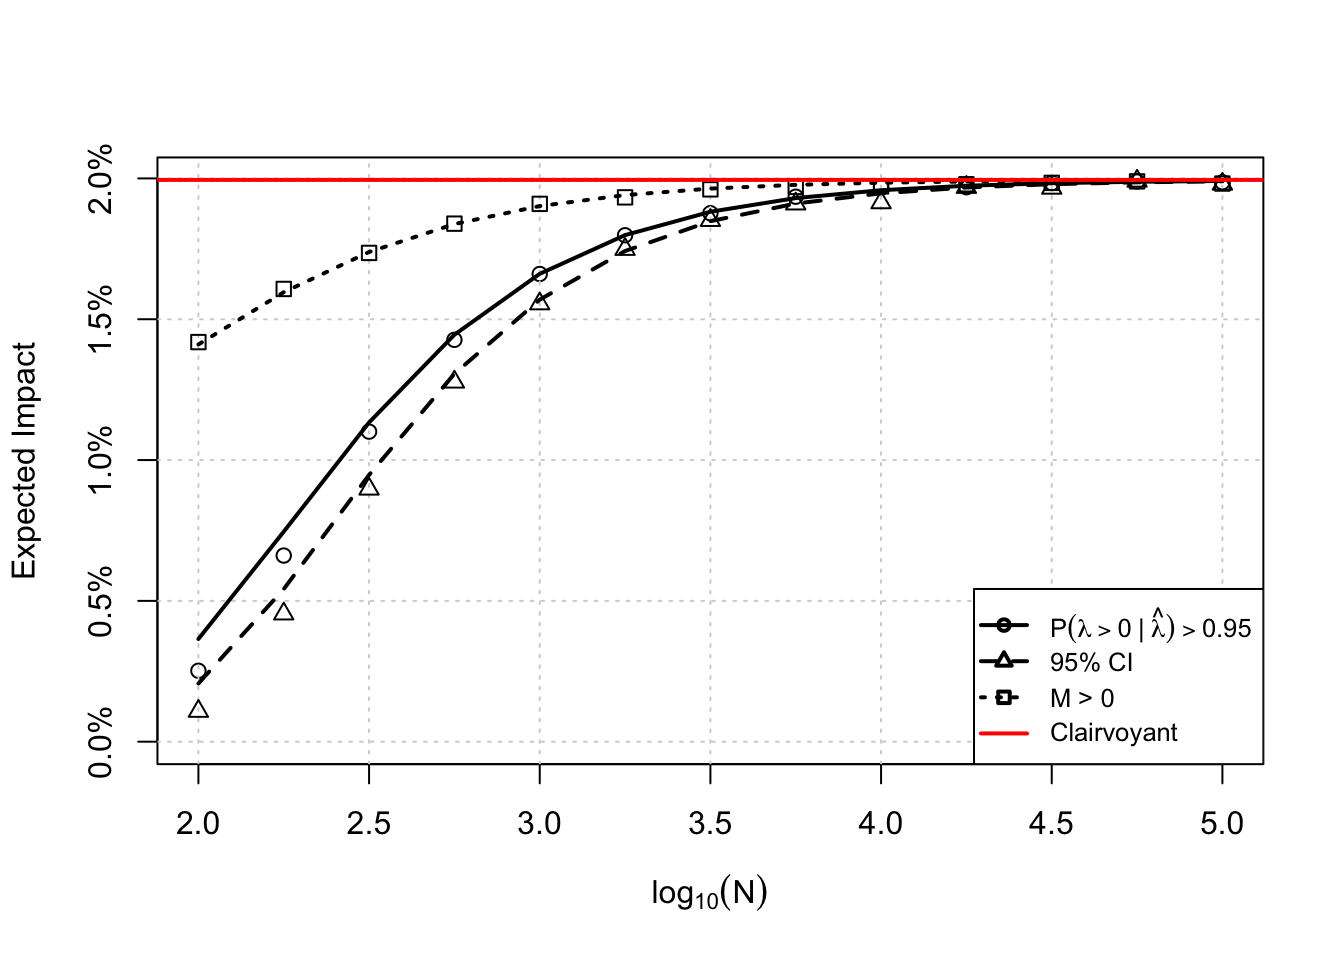
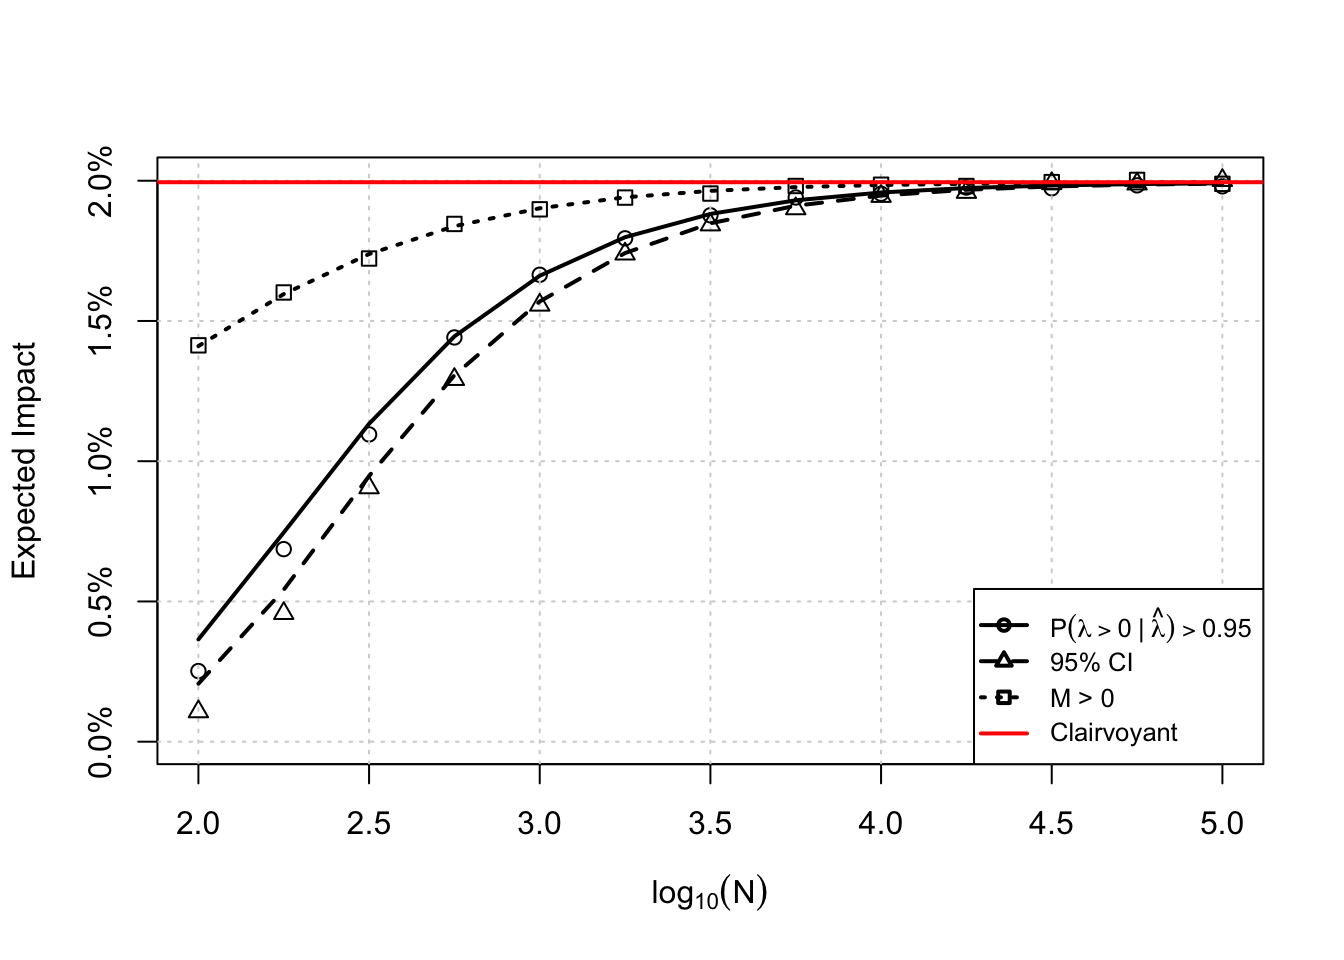
edits

diff --git a/docs/posts/2026-02-20-time/index.html b/docs/posts/2026-02-20-time/index.html
@@ -299,10 +299,10 @@ Important
 <p><span class="math display">\[E[\text{impact} \mid N] = E[\lambda \cdot \mathbf{1}\{\hat \lambda &gt; S(N)\}]\]</span></p>
 <p>Under our model, the joint distribution of the true effect and the observed effect is bivariate normal:</p>
 <p><span class="math display">\[\begin{pmatrix} \lambda \\ \hat \lambda \end{pmatrix} \sim \mathcal{N} \left( \begin{pmatrix} \mu \\ \mu \end{pmatrix}, \begin{pmatrix} \tau^2 &amp; \tau^2 \\ \tau^2 &amp; \tau^2 + s_\lambda^2 \end{pmatrix} \right)\]</span></p>
-<p>Define <span class="math inline">\(\omega^2 = \tau^2 + s_\lambda^2\)</span> as the total variance of the observed lift. Using the properties of the multivariate normal distribution, the expected value of <span class="math inline">\(\lambda\)</span> over the truncation <span class="math inline">\(\hat \lambda &gt; S(N)\)</span> is</p>
-<p><span class="math display">\[E[\lambda \cdot \mathbf{1}(\hat \lambda &gt; S(N))] = \mu \Phi(a) + \frac{\tau^2}{\omega} \phi(a) \&gt;.\]</span></p>
+<p>Using the properties of the multivariate normal distribution, the expected value of <span class="math inline">\(\lambda\)</span> over the truncation <span class="math inline">\(\hat \lambda &gt; S(N)\)</span> is</p>
+<p><span class="math display">\[E[\lambda \cdot \mathbf{1}(\hat \lambda &gt; S(N))] = \mu \Phi(a) + \frac{\tau^2}{\sqrt{\tau^2 + s_\lambda^2}} \phi(a) \&gt;.\]</span></p>
 <p>Here, <span class="math inline">\(a\)</span> is</p>
-<p><span class="math display">\[a = \frac{\mu - S(N)}{\omega} \&gt;.\]</span></p>
+<p><span class="math display">\[a = \frac{\mu - S(N)}{\sqrt{\tau^2 + s_\lambda^2}} \&gt;.\]</span></p>
 <p>Substituting <span class="math inline">\(S(N)\)</span> back into our expression for <span class="math inline">\(a\)</span> gives a fully analytic expression for expected impact as a function of sample size</p>
 <p><span class="math display">\[E[\text{impact} \mid N] = \mu \Phi\left( \frac{\mu - S(N)}{\sqrt{\tau^2 + s_\lambda^2}} \right) + \frac{\tau^2}{\sqrt{\tau^2 + s_\lambda^2}} \phi\left( \frac{\mu - S(N)}{\sqrt{\tau^2 + s_\lambda^2}} \right)\]</span></p>
 <p>As a corollary, we can obtain the <strong>Clairvoyant impact</strong> (the impact with perfect information). As <span class="math inline">\(N \to \infty\)</span>, the sampling variance <span class="math inline">\(s_\lambda^2 \to 0\)</span>. In this limit, <span class="math inline">\(S(N) \to 0\)</span> and <span class="math inline">\(\omega \to \tau\)</span>. The expression collapses to the mean of a folded or truncated normal distribution:</p>

diff --git a/docs/index.html b/docs/index.html
@@ -228,7 +228,7 @@ window.Quarto = {
 
 <div class="quarto-listing quarto-listing-container-default" id="listing-listing">
 <div class="list quarto-listing-default">
-<div class="quarto-post image-right" data-index="0" data-categories="" data-listing-date-sort="1771563600000" data-listing-file-modified-sort="1771784710206" data-listing-date-modified-sort="NaN" data-listing-reading-time-sort="18" data-listing-word-count-sort="3429">
+<div class="quarto-post image-right" data-index="0" data-categories="" data-listing-date-sort="1771563600000" data-listing-file-modified-sort="1771784958740" data-listing-date-modified-sort="NaN" data-listing-reading-time-sort="18" data-listing-word-count-sort="3419">
 <div class="thumbnail">
 <p><a href="./posts/2026-02-20-time/index.html" class="no-external"></a></p><a href="./posts/2026-02-20-time/index.html" class="no-external">
 <p class="card-img-top"><img src="posts/2026-02-20-time/index_files/figure-html/example-procedure-1.png"  class="thumbnail-image card-img"/></p>
